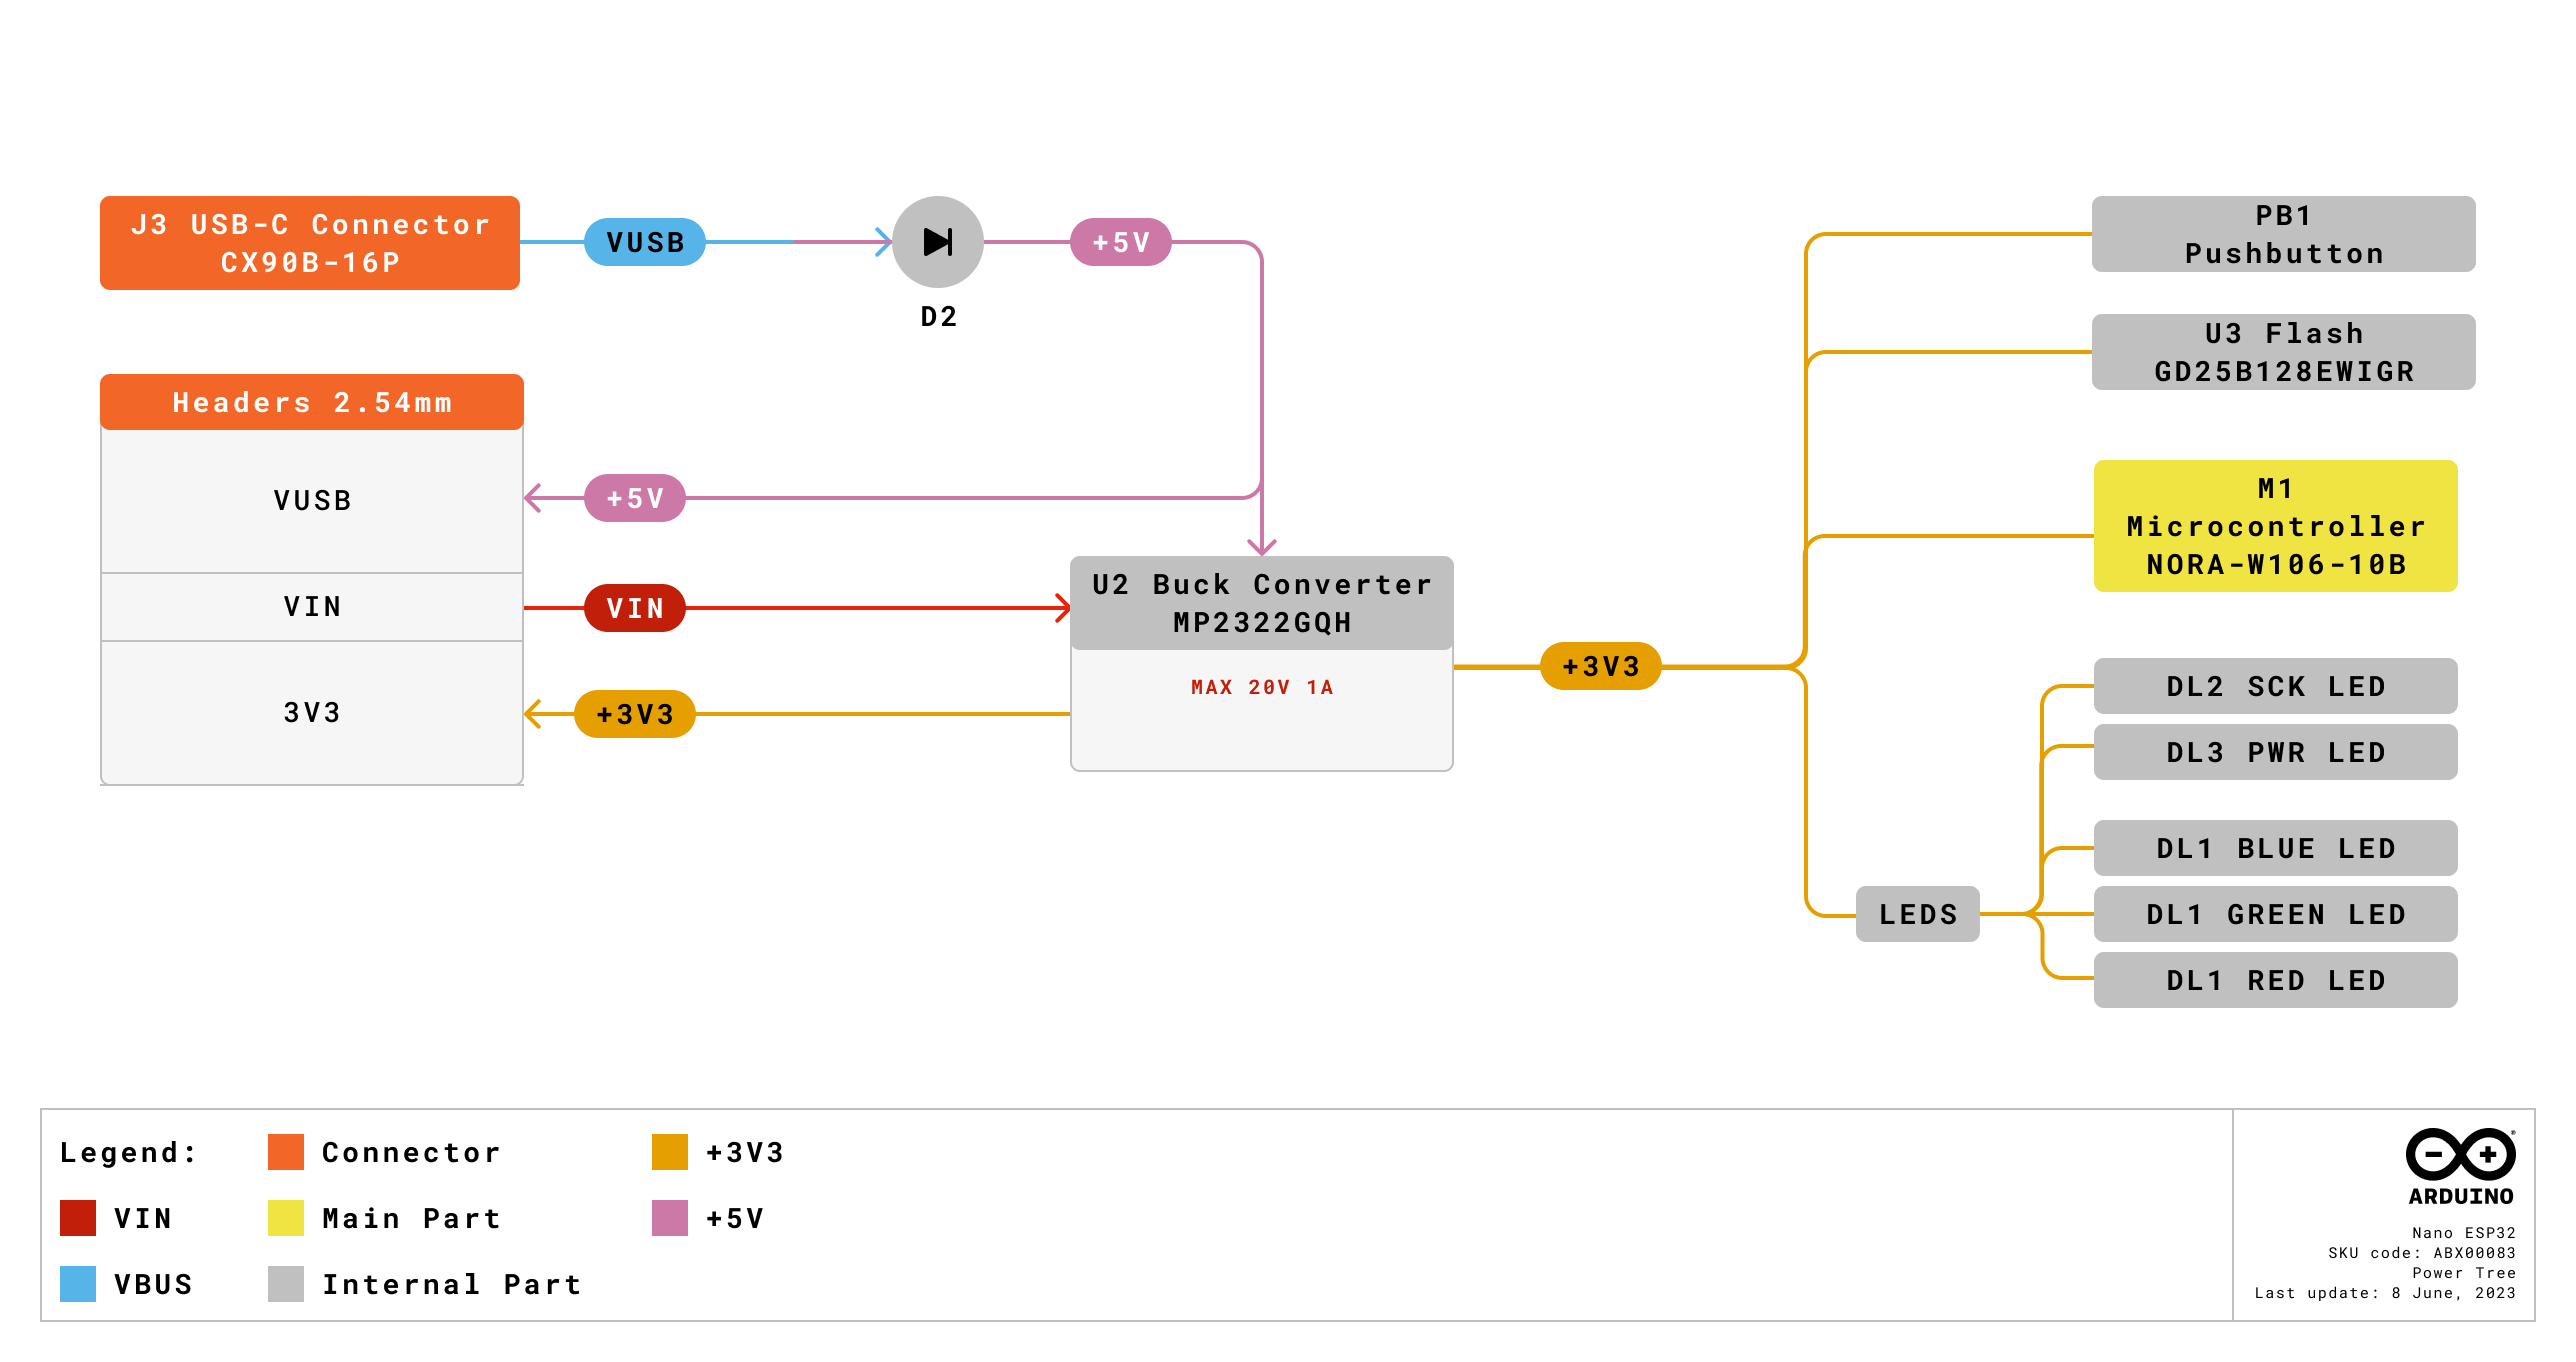
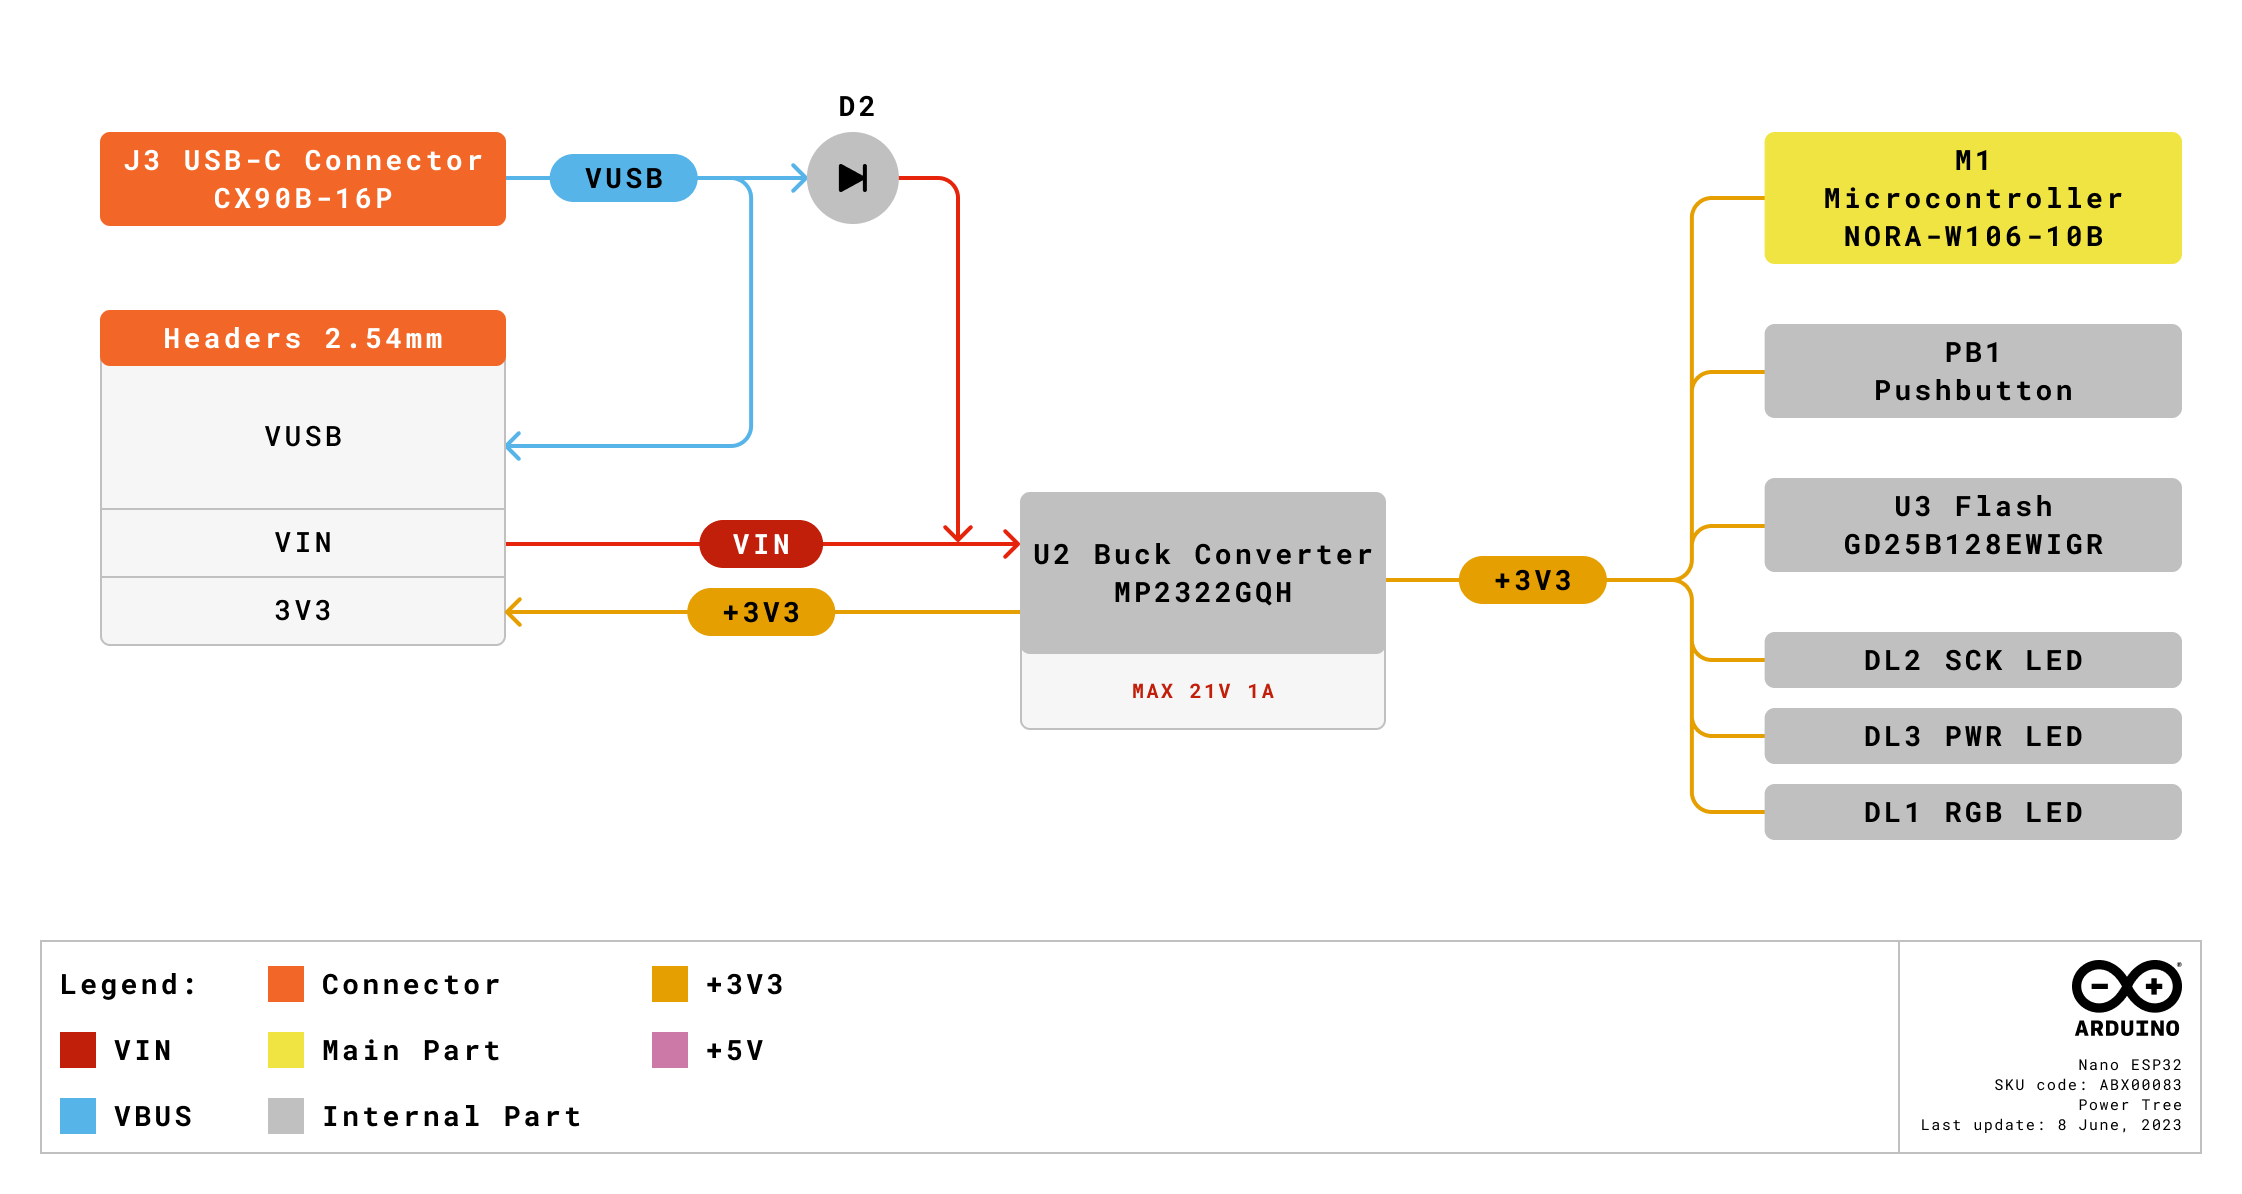
Update power tree

diff --git a/content/hardware/03.nano/boards/nano-esp32/datasheet/datasheet.md b/content/hardware/03.nano/boards/nano-esp32/datasheet/datasheet.md
@@ -91,7 +91,7 @@ The Nano ESP32 uses the [Arduino Core for ESP32 boards](https://github.com/ardui
 | **Ref.** | **Description**                                  |
 | -------- | ------------------------------------------------ |
 | M1       | NORA-W106-10B (ESP32-S3 SoC)                     |
-| J1       | CX90B-16P USB-C® connector                        |
+| J1       | CX90B-16P USB-C® connector                       |
 | JP1      | 1x15 analog header                               |
 | JP2      | 1x15 digital header                              |
 | U2       | MP2322GQH step down converter                    |
@@ -428,17 +428,18 @@ Hereby, Arduino S.r.l. declares that this product is in compliance with essentia
 
 ## Reference Documentation
 
-| Ref                       | Link                                                                                            |
-| ------------------------- | ----------------------------------------------------------------------------------------------- |
-| Arduino IDE (Desktop)     | <https://www.arduino.cc/en/Main/Software>                                                       |
-| Arduino Web Editor (Cloud)       | <https://create.arduino.cc/editor>                                                              |
+| Ref                          | Link                                                                                            |
+| ---------------------------- | ----------------------------------------------------------------------------------------------- |
+| Arduino IDE (Desktop)        | <https://www.arduino.cc/en/Main/Software>                                                       |
+| Arduino Web Editor (Cloud)   | <https://create.arduino.cc/editor>                                                              |
 | Web Editor - Getting Started | <https://docs.arduino.cc/cloud/web-editor/tutorials/getting-started/getting-started-web-editor> |
-| Project Hub               | <https://create.arduino.cc/projecthub?by=part&part_id=11332&sort=trending>                      |
-| Library Reference         | <https://github.com/arduino-libraries/>                                                         |
-| Online Store              | <https://store.arduino.cc/>                                                                     |
+| Project Hub                  | <https://create.arduino.cc/projecthub?by=part&part_id=11332&sort=trending>                      |
+| Library Reference            | <https://github.com/arduino-libraries/>                                                         |
+| Online Store                 | <https://store.arduino.cc/>                                                                     |
 
 ## Change Log
 
-| **Date**   | **Changes** |
-| ---------- | ----------- |
-| 08/06/2023 | Release     |
+| **Date**   | **Changes**                  |
+| ---------- | ---------------------------- |
+| 08/06/2023 | Release                      |
+| 09/01/2023 | Update power tree flowchart. |
